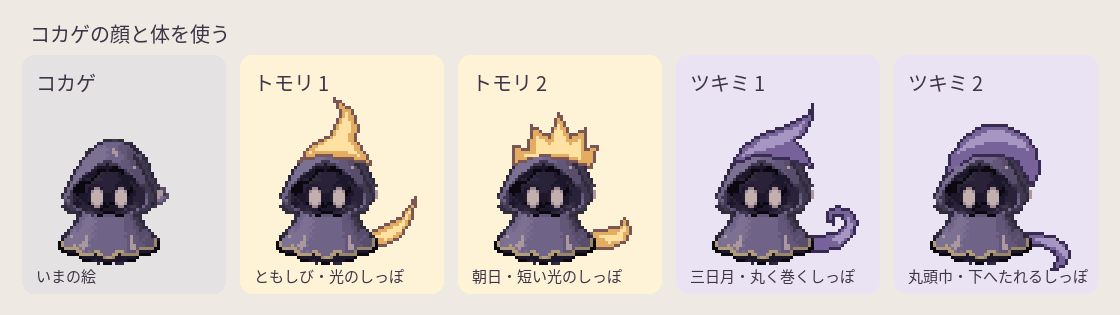
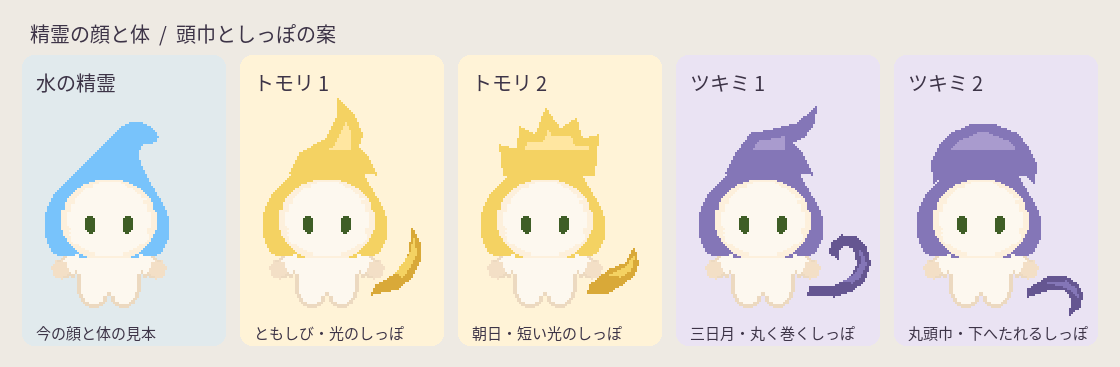
トモリとツキミに今の精霊の顔と体を使う

diff --git a/tools/art/handoff3d/spirit_concepts.py b/tools/art/handoff3d/spirit_concepts.py
@@ -1,109 +1,113 @@
-"""現行コカゲの正面チップに、頭巾としっぽの案を重ねる。"""
+"""水の精霊の共通の顔と体を使い、頭巾としっぽの形を比べる。"""
 from pathlib import Path
 import sys
 
-from PIL import Image, ImageDraw, ImageFont
+import numpy as np
+from PIL import Image, ImageDraw, ImageFilter, ImageFont
 
-ROOT = Path(__file__).resolve().parents[3]
-sys.path.insert(0, str(ROOT / "tools"))
-from chips import load_imgs
+sys.path.insert(0, str(Path(__file__).resolve().parents[1] / "spirit3d"))
+from core import EXT, Spirit, chip
+from rig import shoot
 
-PAD = (14, 15)
-CELL = (72, 64)
 FONT = "/usr/share/fonts/opentype/noto/NotoSansCJK-Regular.ttc"
+LIGHT = ("#f4d262", "#ffe6a0", "#d9a938")
+DARK = ("#8476b7", "#a99bce", "#655691")
 
-# 輪郭、地色、光の順。座標はコカゲのチップの左上が原点。
-LIGHT = ("#795755", "#e3ac61", "#ffe2a1")
-DARK = ("#382b51", "#776299", "#a696c1")
-SHAPES = [
+# 足もとを原点にした正面の形。頭巾の先、しっぽ、その明るい面。
+SHAPES = (
     ("トモリ 1", "ともしび・光のしっぽ", LIGHT,
-     [(9, 10), (13, 5), (20, 1), (23, -6), (21, -11), (27, -7),
-      (29, -1), (28, 3), (31, 7), (33, 11), (25, 9), (16, 8)],
-     [(13, 7), (22, 1), (25, -6), (26, -2), (25, 3), (29, 8), (22, 6)],
-     [(25, 36), (35, 33), (43, 29), (48, 22), (47, 29), (43, 35),
-      (37, 38), (27, 39)],
-     [(35, 35), (43, 31), (46, 27), (43, 33), (38, 36)]),
+     [(-19,-67),(-14,-77),(-1,-84),(5,-95),(5,-104),(13,-96),
+      (17,-86),(15,-80),(20,-75),(24,-66)],
+     [(24,-11),(35,-17),(41,-27),(42,-39),(46,-32),(46,-24),
+      (42,-15),(35,-9),(22,-6)],
+     [(34,-17),(41,-26),(43,-34),(44,-26),(41,-20),(37,-15)]),
     ("トモリ 2", "朝日・短い光のしっぽ", LIGHT,
-     [(8, 11), (8, 5), (13, 6), (14, -2), (20, 2), (23, -6), (27, 2),
-      (32, -1), (32, 6), (36, 5), (34, 12), (25, 9), (16, 8)],
-     [(12, 8), (16, 8), (16, 2), (21, 5), (23, -2), (26, 5), (30, 3),
-      (30, 9), (23, 7), (18, 7)],
-     [(26, 36), (36, 33), (43, 32), (45, 29), (47, 33), (46, 36),
-      (41, 39), (35, 39), (28, 40)],
-     [(37, 35), (43, 34), (45, 32), (44, 36), (40, 37)]),
+     [(-21,-66),(-23,-81),(-14,-79),(-13,-90),(-5,-86),(0,-99),
+      (7,-89),(15,-94),(18,-84),(26,-86),(25,-74),(24,-66)],
+     [(22,-11),(32,-19),(40,-22),(44,-29),(46,-22),(44,-16),
+      (38,-11),(31,-7),(21,-7)],
+     [(32,-16),(40,-20),(44,-25),(42,-18),(37,-15)]),
     ("ツキミ 1", "三日月・丸く巻くしっぽ", DARK,
-     [(8, 11), (12, 5), (18, 1), (27, -2), (33, -5), (35, -9), (35, -4),
-      (32, 1), (29, 3), (33, 7), (35, 12), (26, 9), (16, 8)],
-     [(12, 8), (18, 3), (29, -1), (32, -3), (30, 1), (25, 4), (19, 6)],
-     [(25, 35), (37, 35), (43, 34), (46, 31), (45, 28), (42, 28),
-      (42, 31), (40, 30), (40, 27), (43, 25), (47, 26), (50, 30),
-      (49, 34), (44, 39), (36, 40), (26, 39)],
-     [(42, 36), (47, 32), (47, 29), (48, 31), (47, 35), (44, 37)]),
+     [(-19,-67),(-13,-78),(-6,-87),(5,-89),(17,-92),(26,-100),
+      (25,-92),(20,-85),(14,-82),(19,-77),(24,-66)],
+     [(23,-10),(36,-11),(44,-15),(47,-22),(45,-29),(40,-31),
+      (37,-28),(37,-24),(33,-27),(34,-32),(39,-36),(46,-35),
+      (51,-30),(53,-22),(50,-13),(44,-8),(35,-5),(22,-6)],
+     [(40,-13),(46,-17),(49,-22),(48,-28),(49,-27),(51,-21),
+      (48,-15),(44,-12)]),
     ("ツキミ 2", "丸頭巾・下へたれるしっぽ", DARK,
-     [(7, 15), (8, 8), (13, 2), (19, -2), (26, -2), (33, 1), (37, 6),
-      (38, 14), (36, 18), (33, 14), (31, 10), (25, 8), (16, 8)],
-     [(11, 7), (15, 3), (21, 0), (26, 0), (32, 3), (34, 6), (28, 4),
-      (22, 3), (16, 5)],
-     [(26, 35), (37, 34), (43, 35), (47, 38), (48, 42), (46, 45),
-      (42, 46), (44, 43), (43, 40), (38, 38), (26, 40)],
-     [(37, 36), (43, 36), (47, 40), (47, 42), (44, 39), (41, 38)]),
-]
+     [(-24,-62),(-25,-72),(-21,-81),(-15,-87),(-6,-91),(7,-91),
+      (17,-87),(23,-80),(27,-71),(26,-62),(22,-66),(-20,-65)],
+     [(23,-9),(33,-15),(42,-15),(47,-12),(50,-7),(49,0),(44,4),
+      (45,-4),(42,-8),(35,-9),(23,-5)],
+     [(33,-12),(42,-13),(47,-9),(48,-5),(45,-8),(41,-10)]),
+)
 
 
 def points(vertices):
-    return [(x+PAD[0], y+PAD[1]) for x, y in vertices]
+    return [(x-EXT[0], y-EXT[2]) for x, y in vertices]
 
 
-def variant(base, colors, hood, hood_light, tail, tail_light):
-    out = Image.new("RGBA", CELL)
-    draw = ImageDraw.Draw(out)
-    edge, fill, glow = colors
-    draw.polygon(points(tail), fill=fill, outline=edge)
-    draw.polygon(points(tail_light), fill=glow)
-    front = base.copy()
-    for y, right in ((19, 35), (20, 36), (21, 36), (22, 36),
-                     (23, 35), (24, 34), (25, 33)):
-        # 現行の頭巾の後ろにある房を、新しい形に置きかえる。
-        front.paste((0, 0, 0, 0), (right, y, front.width, y+1))
-    out.alpha_composite(front, PAD)
-    draw.polygon(points(hood), fill=fill, outline=edge)
-    draw.polygon(points(hood_light), fill=glow)
-    # マント、足、目がそのままであることを原画と照合。
-    for row, start, end in [(y, 2, 37) for y in range(26, 45)] + [
-                            (y, 10, 28) for y in range(12, 26)]:
-        for col in range(start, end):
-            original = base.getpixel((col, row))
-            if original[3]:
-                out.putpixel((col+PAD[0], row+PAD[1]), original)
-    return out
+def preview(base, hood, style):
+    _, _, colors, tip, tail, glint = style
+    fill, light, shade = colors
+    lower = Image.new("RGBA", base.size)
+    draw = ImageDraw.Draw(lower)
+    draw.polygon(points(tail), fill=shade)
+    draw.polygon(points(glint), fill=fill)
+    pixels = np.array(base)
+    pixels[hood, :3] = tuple(bytes.fromhex(fill[1:]))
+    lower.alpha_composite(Image.fromarray(pixels))
+    # 先と頭巾をつなぎ、元の顔と体のドットは同じ位置に残す。
+    top = Image.new("RGBA", base.size)
+    ImageDraw.Draw(top).polygon(points(tip), fill=fill)
+    top_pixels = np.array(top)
+    inner = np.asarray(top.getchannel("A").filter(ImageFilter.MinFilter(9))) > 0
+    inner[-78-EXT[2]:] = False
+    top_pixels[inner, :3] = tuple(bytes.fromhex(light[1:]))
+    fixed = (pixels[:, :, 3] > 0) & ~hood
+    top_pixels[fixed] = 0
+    lower.alpha_composite(Image.fromarray(top_pixels))
+    np.testing.assert_array_equal(np.array(lower)[fixed], np.array(base)[fixed])
+    return lower
+
+
+def with_face(sprite):
+    eyes, x, y = chip("sp:face#n")
+    sprite.alpha_composite(Image.fromarray(eyes), (x-EXT[0], y-EXT[2]))
+    return sprite
 
 
 def main():
-    _, chips = load_imgs()
-    chip = chips["kg_basic:idle"]
-    original = chip["f"][0].convert("RGBA").crop((0, 0, chip["w"], chip["h"]))
-    original_cell = Image.new("RGBA", CELL)
-    original_cell.alpha_composite(original, PAD)
+    spirit = Spirit("water")
+    pose = {"bN": .35, "bF": .35}
+    original = with_face(Image.fromarray(shoot(spirit, 0, pose)[0]))
+    spirit.tops = []
+    spirit.cache[0] = {}
+    body = Image.fromarray(shoot(spirit, 0, pose)[0])
+    pixels = np.array(body)
+    hood = np.all(pixels[:, :, :3] == (120, 195, 251), axis=2)
+    assert hood.any()
+    options = [("水の精霊", "今の顔と体の見本", original)] + [
+        (style[0], style[1], with_face(preview(body, hood, style)))
+        for style in SHAPES
+    ]
 
-    sheet = Image.new("RGB", (1120, 315), "#eeeae3")
+    sheet = Image.new("RGB", (1120, 367), "#eeeae3")
     draw = ImageDraw.Draw(sheet)
     font = ImageFont.truetype(FONT, 20, index=0)
     label_font = ImageFont.truetype(FONT, 15, index=0)
-    draw.text((30, 18), "コカゲの顔と体を使う", fill="#3d3447", font=font)
-    options = [("コカゲ", "いまの絵", original_cell)] + [
-        (name, label, variant(original, colors, *shape))
-        for name, label, colors, *shape in SHAPES
-    ]
+    draw.text((30, 18), "精霊の顔と体  /  頭巾としっぽの案", fill="#3d3447", font=font)
     for i, (name, label, sprite) in enumerate(options):
         x = 22 + 218*i
-        background = ("#e5e2e4", "#fff3d7", "#fff3d7", "#eae3f3", "#eae3f3")[i]
-        draw.rounded_rectangle((x, 55, x+203, 293), radius=12, fill=background)
+        background = ("#e1eaed", "#fff3d7", "#fff3d7", "#eae3f3", "#eae3f3")[i]
+        draw.rounded_rectangle((x, 55, x+203, 345), radius=12, fill=background)
         draw.text((x+14, 67), name, fill="#3d3447", font=font)
-        draw.text((x+14, 264), label, fill="#3d3447", font=label_font)
-        preview = sprite.resize((CELL[0]*3, CELL[1]*3), Image.Resampling.NEAREST)
-        sheet.paste(preview, (x-12, 85), preview)
-    output = Path(sys.argv[1])
-    sheet.save(output, optimize=True)
+        draw.text((x+14, 321), label, fill="#3d3447", font=label_font)
+        art = sprite.crop((26, 13, 130, 131))
+        art = art.resize((art.width*2, art.height*2), Image.Resampling.NEAREST)
+        sheet.paste(art, (x-5, 84), art)
+    sheet.save(Path(sys.argv[1]), optimize=True)
 
 
 if __name__ == "__main__":

diff --git a/handoff/from-gpt.md b/handoff/from-gpt.md
@@ -34,7 +34,7 @@
 
 ### H-4 光と闇のせいれい
 
-[トモリとツキミの形の案](files/H-4/shape-options.png)。コカゲの正面の絵 `kg_basic:idle` を使い、顔と体をそろえた。頭巾としっぽの組み合わせを、それぞれ1つずつ選んでほしい。
+[トモリとツキミの形の案](files/H-4/shape-options.png)。今のトモリとツキミが形を借りている、水の精霊の正面モデルを使った。顔と体のドットと位置をそろえた。頭巾としっぽの組み合わせを、それぞれ1つずつ選んでほしい。
 
 - トモリ **1** ともしびの頭巾と、上へ伸びる光のしっぽ。**2** 朝日のひだのある頭巾と、短い光のしっぽ。
 - ツキミ **1** 三日月の頭巾と、丸く巻くしっぽ。**2** 丸い頭巾と、下へたれるしっぽ。
